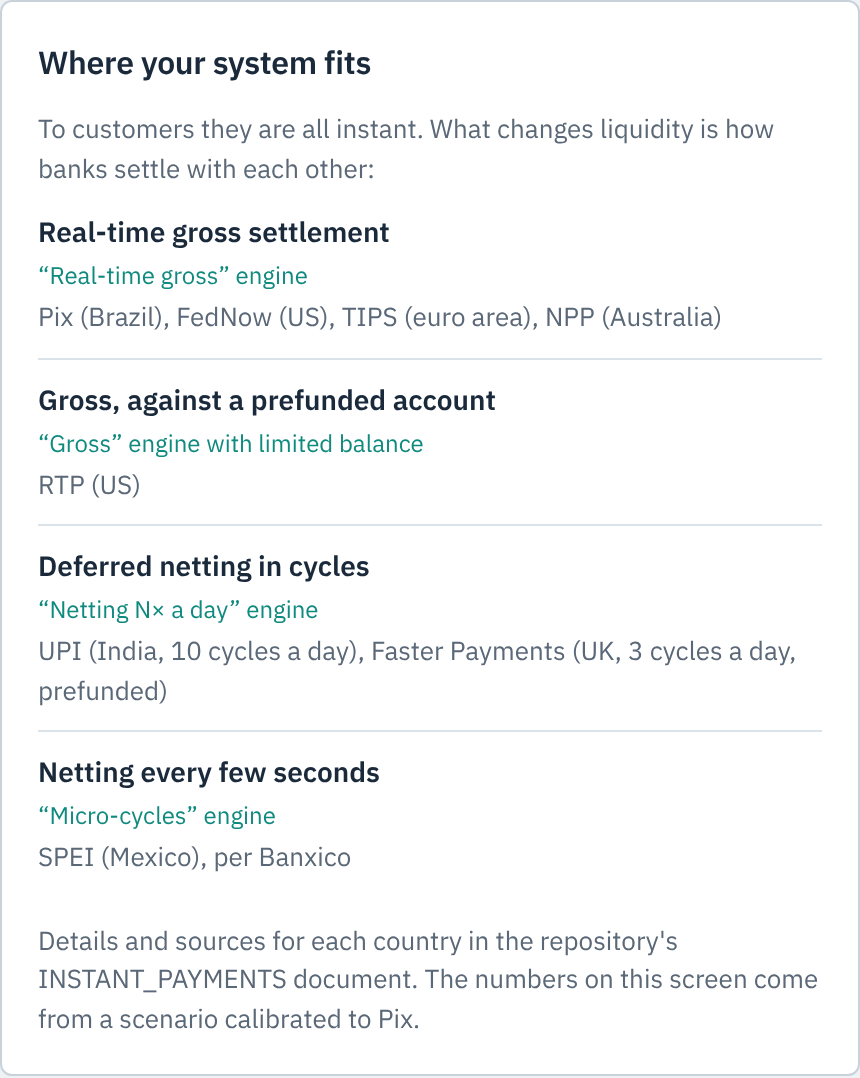
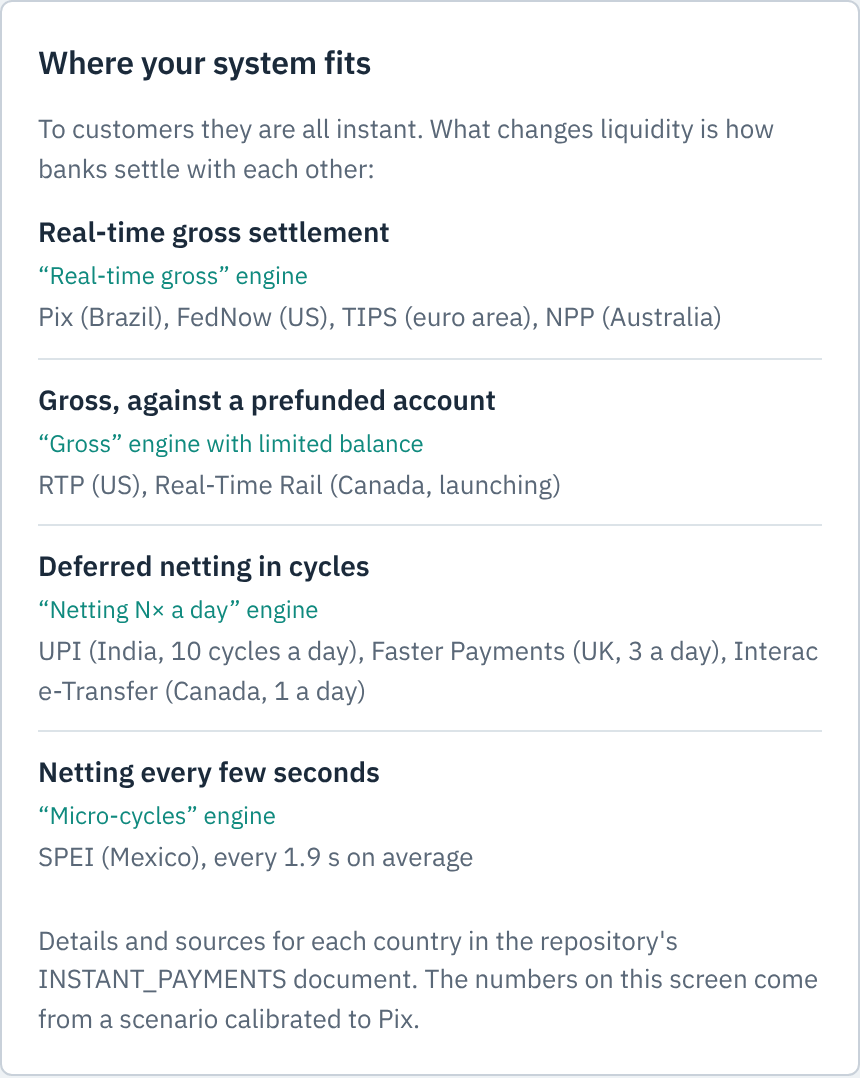
docs: confirm SPEI, Interac e-Transfer and Canada's RTR against primary sources; update UI panel and screenshots
Claude-Session: https://claude.ai/code/session_01DUGyeUeHFLL1zbYYdBK5a7

diff --git a/web/src/i18n.ts b/web/src/i18n.ts
@@ -93,9 +93,9 @@ const pt = {
   fitIntro: "Para o cliente, todos são instantâneos. O que muda a liquidez é como os bancos acertam as contas entre si:",
   fitRows: [
     { model: "Liquidação bruta em tempo real", engine: "motor “Bruto em tempo real”", systems: "Pix (Brasil), FedNow (EUA), TIPS (zona do euro), NPP (Austrália)" },
-    { model: "Bruta, com conta pré-financiada", engine: "motor “Bruto” com saldo limitado", systems: "RTP (EUA)" },
-    { model: "Compensação diferida em ciclos", engine: "motor “Compensação N× ao dia”", systems: "UPI (Índia, 10 ciclos por dia), Faster Payments (Reino Unido, 3 ciclos por dia, pré-financiado)" },
-    { model: "Compensação a cada poucos segundos", engine: "motor “Micro-ciclos”", systems: "SPEI (México), segundo o Banxico" },
+    { model: "Bruta, com conta pré-financiada", engine: "motor “Bruto” com saldo limitado", systems: "RTP (EUA), Real-Time Rail (Canadá, em lançamento)" },
+    { model: "Compensação diferida em ciclos", engine: "motor “Compensação N× ao dia”", systems: "UPI (Índia, 10 ciclos por dia), Faster Payments (Reino Unido, 3 por dia), Interac e-Transfer (Canadá, 1 por dia)" },
+    { model: "Compensação a cada poucos segundos", engine: "motor “Micro-ciclos”", systems: "SPEI (México), em média a cada 1,9 s" },
   ],
   fitCaption: "Detalhes e fontes de cada país no documento INSTANT_PAYMENTS do repositório. Os números desta tela vêm de um cenário calibrado com o Pix.",
 };
@@ -166,9 +166,9 @@ const en: Strings = {
   fitIntro: "To customers they are all instant. What changes liquidity is how banks settle with each other:",
   fitRows: [
     { model: "Real-time gross settlement", engine: "“Real-time gross” engine", systems: "Pix (Brazil), FedNow (US), TIPS (euro area), NPP (Australia)" },
-    { model: "Gross, against a prefunded account", engine: "“Gross” engine with limited balance", systems: "RTP (US)" },
-    { model: "Deferred netting in cycles", engine: "“Netting N× a day” engine", systems: "UPI (India, 10 cycles a day), Faster Payments (UK, 3 cycles a day, prefunded)" },
-    { model: "Netting every few seconds", engine: "“Micro-cycles” engine", systems: "SPEI (Mexico), per Banxico" },
+    { model: "Gross, against a prefunded account", engine: "“Gross” engine with limited balance", systems: "RTP (US), Real-Time Rail (Canada, launching)" },
+    { model: "Deferred netting in cycles", engine: "“Netting N× a day” engine", systems: "UPI (India, 10 cycles a day), Faster Payments (UK, 3 a day), Interac e-Transfer (Canada, 1 a day)" },
+    { model: "Netting every few seconds", engine: "“Micro-cycles” engine", systems: "SPEI (Mexico), every 1.9 s on average" },
   ],
   fitCaption: "Details and sources for each country in the repository's INSTANT_PAYMENTS document. The numbers on this screen come from a scenario calibrated to Pix.",
 };

diff --git a/docs/INSTANT_PAYMENTS.md b/docs/INSTANT_PAYMENTS.md
@@ -8,7 +8,7 @@
 > payments. This page shows which settlement model each system uses and which LoopSettle engine
 > represents it.
 >
-> Last checked: 5 Nov 2026, by public web search. Rows marked **to check** rely on secondary
+> Last checked: 5 Nov 2026, by public web search; SPEI and Canada checked against primary sources (Banxico, Interac, Bank of Canada). Rows marked **to check** rely on secondary
 > sources and must be confirmed against the operator's rulebook before being cited.
 
 ## The key distinction: how banks settle with each other
@@ -21,7 +21,7 @@ changes the **liquidity** banks must hold is how the banks settle among themselv
 | **Real-time gross settlement (RTGS)** | each payment settles on its own, immediately, in central bank money; the payer's bank needs the funds *before* each payment | `GrossRealTime` |
 | **Gross, against a prefunded joint account** | as above, but against a pool of funds the banks prefund at the central bank | `GrossRealTime` with a limited opening balance (constrained-liquidity mode) |
 | **Deferred net settlement (DNS)** | banks exchange payments instantly but settle only their *net* positions, in a few cycles a day (often prefunded or collateralised) | `DeferredNet { cycles_per_day }` |
-| **Netting every few seconds** | a multilateral offsetting algorithm runs in quick succession | `AtomicMicroCycle` (closest analogue) |
+| **Netting every few seconds** | a clearing algorithm runs in quick succession and settles the payments the current balances allow | `AtomicMicroCycle` (closest analogue) |
 
 LoopSettle's central result — *nettable volume is not saved liquidity* — is about systems in the
 first two groups, which are the ones asking whether a liquidity-saving mechanism is worth adding.
@@ -38,11 +38,11 @@ question: how much more liquidity a move to RTGS would require.
 | **TIPS** (SCT Inst) | Euro area | Eurosystem (ECB) | Nov 2018 | RTGS in euro central bank money, each payment in under 10 s | `GrossRealTime` | confirmed |
 | **NPP** + Fast Settlement Service | Australia | NPP Australia / Reserve Bank of Australia | Feb 2018 | line-by-line real-time settlement of each payment in exchange settlement accounts, no netting | `GrossRealTime` | confirmed |
 | **FAST** | Singapore | Banking industry / MAS | 2014 | real-time service; how FAST positions settle in MEPS+ is not settled by the sources found | — | **to check** |
-| **SPEI** | Mexico | Banco de México | Aug 2004 | described by commercial sources as RTGS, but by the World Bank and a Banxico presentation as a multilateral offsetting algorithm running every few seconds | `AtomicMicroCycle` (analogue) | **to check** |
+| **SPEI** | Mexico | Banco de México | Aug 2004 | settlement by a clearing algorithm that repeatedly selects the sets of payments that can settle with participants' current balances — every 1.9 s on average, inside the system, in central bank money (Banxico) | `AtomicMicroCycle` (analogue) | confirmed (Banxico) |
 | **UPI** | India | NPCI / Reserve Bank of India | 2016 | deferred net settlement: NPCI computes net positions and settles them in the RBI's RTGS, 10 cycles a day for authorised transactions | `DeferredNet { 10 }` | confirmed (secondary sources) |
 | **Faster Payments** | United Kingdom | Pay.UK / Bank of England | May 2008 | deferred net settlement at the Bank of England, three cycles per business day, prefunded | `DeferredNet { 3 }` | confirmed (secondary sources) |
-| **Interac e-Transfer** | Canada | Interac Corp. | 2003 | instant to the customer; banks settle net obligations later through Payments Canada systems (exact current routing not confirmed) | `DeferredNet` | **to check** |
-| **Real-Time Rail (RTR)** | Canada | Payments Canada | not yet live: phased launch targeted for Q4 2026 | to be confirmed when it launches | — | **to check** |
+| **Interac e-Transfer** | Canada | Interac Corp. | 2003 | instant to the customer; deferred net settlement in 24-hour cycles: Interac computes each participant's amount and participants pay each other through Lynx (Canada's RTGS); migration to the RTR planned | `DeferredNet { 1 }` | confirmed (Interac disclosure, 2025) |
+| **Real-Time Rail (RTR)** | Canada | Payments Canada | not yet live: phased launch targeted for Q4 2026 | real-time settlement against prefunded settlement accounts at the Bank of Canada, funded and defunded through Lynx | `GrossRealTime` (limited balance) | confirmed (Bank of Canada policy); launch pending |
 
 ## What this does and does not mean
 
@@ -76,6 +76,9 @@ question: how much more liquidity a move to RTGS would require.
   [Business Today, settlement cycles from 3 Nov 2025](https://www.businesstoday.in/personal-finance/news/story/upi-users-on-alert-settlement-rules-to-change-from-november-3-heres-what-can-be-expected-495471-2025-09-24)
 - Faster Payments: [BIS CPSS 105 (UK)](https://www.bis.org/publ/cpss105_uk.pdf) ·
   [Pay.UK, net sender caps](https://www.wearepay.uk/understanding-changes-to-the-faster-payment-system-net-sender-caps/)
+- SPEI (primary): [Banco de México, SPEI description](https://www.banxico.org.mx/sistemas-de-pago/d/%7B89B6CCF0-6070-7389-3DD5-B27AC4ECD9D1%7D.pdf)
+- Interac e-Transfer (primary): [Interac, PPS self-assessment disclosure 2025](https://www.interac.ca/wp-content/uploads/2025/09/Interac-PPS-e-Transfer-Self-Assessment-2025-VF-Disclosure-Submission.pdf)
+- RTR (primary): [Bank of Canada, settlement account access policy for the Real-Time Rail](https://www.bankofcanada.ca/core-functions/financial-system/bank-canadas-settlement-account-policies-for-payments-canada-payment-systems/bank-canada-settlement-account-access-policy-real-time-rail/)
 - Canada: [Bank of Canada, payment systems it oversees](https://www.bankofcanada.ca/core-functions/financial-system/payment-systems/) ·
   [Bank of Canada designates Interac e-Transfer](https://www.finextra.com/pressarticle/83658/bank-of-canada-designates-interac-etransfer-as-a-prominent-payment-system) ·
   [Real-Time Rail on track for Q4 2026](https://platform.intelligence.regxelerator.com/updates/b02be15b633e5427f73a003899655469f4bc1a794ae83319c766dfcb8bacdf7d/payments-canada-confirms-real-time-rail-is-on-track-for-phased-q4-2026-launch-with-centralized-f)

diff --git a/docs/INSTANT_PAYMENTS.pt-BR.md b/docs/INSTANT_PAYMENTS.pt-BR.md
@@ -8,7 +8,7 @@
 > instantâneos. Esta página mostra o modelo de liquidação de cada sistema e qual motor do
 > LoopSettle o representa.
 >
-> Última conferência: 05/11/2026, por busca pública na web. Linhas marcadas **a conferir**
+> Última conferência: 05/11/2026, por busca pública na web; SPEI e Canadá conferidos em fontes primárias (Banxico, Interac, Bank of Canada). Linhas marcadas **a conferir**
 > dependem de fontes secundárias e precisam ser confirmadas no regulamento do operador antes de
 > serem citadas.
 
@@ -23,7 +23,7 @@ entre si:
 | **Liquidação bruta em tempo real (LBTR/RTGS)** | cada pagamento liquida sozinho, na hora, em dinheiro do banco central; o banco pagador precisa ter o saldo *antes* de cada pagamento | `GrossRealTime` |
 | **Bruta, contra conta conjunta pré-financiada** | como acima, mas contra um fundo que os bancos depositam antes no banco central | `GrossRealTime` com saldo inicial limitado (modo de liquidez restrita) |
 | **Compensação diferida (DNS)** | os bancos trocam os pagamentos na hora, mas liquidam só as posições *líquidas*, em alguns ciclos por dia (muitas vezes pré-financiados ou com garantia) | `DeferredNet { ciclos_por_dia }` |
-| **Compensação a cada poucos segundos** | um algoritmo de compensação multilateral roda em intervalos curtos | `AtomicMicroCycle` (o análogo mais próximo) |
+| **Compensação a cada poucos segundos** | um algoritmo de compensação roda em intervalos curtos e liquida os pagamentos que os saldos do momento permitem | `AtomicMicroCycle` (o análogo mais próximo) |
 
 O resultado central do LoopSettle — *volume compensável não é liquidez economizada* — diz
 respeito aos sistemas dos dois primeiros grupos, que são os que se perguntam se vale adicionar um
@@ -41,11 +41,11 @@ modelo bruto exigiria.
 | **TIPS** (SCT Inst) | Zona do euro | Eurosistema (BCE) | nov/2018 | bruta em tempo real em dinheiro do banco central em euro, cada pagamento em menos de 10 s | `GrossRealTime` | confirmado |
 | **NPP** + Fast Settlement Service | Austrália | NPP Australia / Reserve Bank of Australia | fev/2018 | liquidação individual em tempo real de cada pagamento nas contas de liquidação, sem compensação | `GrossRealTime` | confirmado |
 | **FAST** | Singapura | setor bancário / MAS | 2014 | serviço em tempo real; as fontes encontradas não esclarecem como as posições do FAST são liquidadas no MEPS+ | — | **a conferir** |
-| **SPEI** | México | Banco de México | ago/2004 | fontes comerciais o descrevem como bruto em tempo real, mas o Banco Mundial e uma apresentação do Banxico descrevem um algoritmo de compensação multilateral que roda a cada poucos segundos | `AtomicMicroCycle` (análogo) | **a conferir** |
+| **SPEI** | México | Banco de México | ago/2004 | liquidação por um algoritmo de compensação que escolhe, repetidamente, os conjuntos de pagamentos que podem ser liquidados com os saldos do momento — em média a cada 1,9 s, dentro do próprio sistema, em dinheiro do banco central (Banxico) | `AtomicMicroCycle` (análogo) | confirmado (Banxico) |
 | **UPI** | Índia | NPCI / Reserve Bank of India | 2016 | compensação diferida: a NPCI calcula as posições líquidas e as liquida no sistema bruto do RBI, 10 ciclos por dia para transações autorizadas | `DeferredNet { 10 }` | confirmado (fontes secundárias) |
 | **Faster Payments** | Reino Unido | Pay.UK / Bank of England | mai/2008 | compensação diferida no Bank of England, três ciclos por dia útil, pré-financiada | `DeferredNet { 3 }` | confirmado (fontes secundárias) |
-| **Interac e-Transfer** | Canadá | Interac Corp. | 2003 | instantâneo para o cliente; os bancos liquidam as obrigações líquidas depois, pelos sistemas da Payments Canada (o caminho exato atual não foi confirmado) | `DeferredNet` | **a conferir** |
-| **Real-Time Rail (RTR)** | Canadá | Payments Canada | ainda não opera: lançamento em fases previsto para o 4º trimestre de 2026 | a confirmar quando entrar em operação | — | **a conferir** |
+| **Interac e-Transfer** | Canadá | Interac Corp. | 2003 | instantâneo para o cliente; compensação diferida em ciclos de 24 horas: a Interac calcula o valor de cada participante e os participantes pagam uns aos outros pelo Lynx (o sistema bruto do Canadá); migração para o RTR prevista | `DeferredNet { 1 }` | confirmado (divulgação da Interac, 2025) |
+| **Real-Time Rail (RTR)** | Canadá | Payments Canada | ainda não opera: lançamento em fases previsto para o 4º trimestre de 2026 | liquidação em tempo real contra contas de liquidação pré-financiadas no Bank of Canada, abastecidas e esvaziadas pelo Lynx | `GrossRealTime` (saldo limitado) | confirmado (política do Bank of Canada); lançamento pendente |
 
 ## O que isso significa e o que não significa
 

diff --git a/README.md b/README.md
@@ -224,17 +224,22 @@ entre si**, e o LoopSettle tem um motor para cada modelo:
 | Modelo entre bancos | Exemplos | Motor |
 |---|---|---|
 | Bruto em tempo real | Pix (Brasil), FedNow (EUA), TIPS (zona do euro), NPP (Austrália) | `GrossRealTime` |
-| Bruto, conta pré-financiada | RTP (EUA) | `GrossRealTime` com saldo limitado |
-| Compensação diferida em ciclos | UPI (Índia, 10/dia), Faster Payments (Reino Unido, 3/dia) | `DeferredNet` |
-| Compensação a cada poucos segundos | SPEI (México), a conferir | `AtomicMicroCycle` |
+| Bruto, conta pré-financiada | RTP (EUA), Real-Time Rail (Canadá, em lançamento) | `GrossRealTime` com saldo limitado |
+| Compensação diferida em ciclos | UPI (Índia, 10/dia), Faster Payments (Reino Unido, 3/dia), Interac e-Transfer (Canadá, 1/dia) | `DeferredNet` |
+| Compensação a cada poucos segundos | SPEI (México, em média a cada 1,9 s) | `AtomicMicroCycle` |
 
 </td>
   </tr>
 </table>
 
 - **Nos EUA**, o FedNow funciona como o Pix: o resultado central se aplica diretamente ao desenho.
-- **No Canadá**, o Interac e-Transfer é instantâneo para o cliente, mas os bancos compensam depois
-  (modelo `DeferredNet`); o novo Real-Time Rail ainda não estava em operação em novembro de 2026.
+- **No Canadá**, o Interac e-Transfer é instantâneo para o cliente, mas os bancos compensam o saldo
+  líquido uma vez por dia, pelo Lynx (modelo `DeferredNet`). O novo Real-Time Rail, com lançamento
+  previsto para o fim de 2026, liquida em tempo real contra contas pré-financiadas no Bank of
+  Canada: é exatamente o tipo de sistema para o qual a lógica do estudo finlandês mede o custo da
+  migração.
+- **No México**, o SPEI já roda um algoritmo de compensação a cada 1,9 s em média: é o análogo real
+  mais próximo dos micro-ciclos atômicos.
 - **Os números** (9,3%, 0,3%, 0,02%) vêm do cenário calibrado com o Pix e não valem
   automaticamente para outro país: recalibrar exige os agregados públicos dele.
 
@@ -622,17 +627,21 @@ has an engine for each model:
 | Interbank model | Examples | Engine |
 |---|---|---|
 | Real-time gross | Pix (Brazil), FedNow (US), TIPS (euro area), NPP (Australia) | `GrossRealTime` |
-| Gross, prefunded account | RTP (US) | `GrossRealTime` with limited balance |
-| Deferred netting in cycles | UPI (India, 10/day), Faster Payments (UK, 3/day) | `DeferredNet` |
-| Netting every few seconds | SPEI (Mexico), to be checked | `AtomicMicroCycle` |
+| Gross, prefunded account | RTP (US), Real-Time Rail (Canada, launching) | `GrossRealTime` with limited balance |
+| Deferred netting in cycles | UPI (India, 10/day), Faster Payments (UK, 3/day), Interac e-Transfer (Canada, 1/day) | `DeferredNet` |
+| Netting every few seconds | SPEI (Mexico, every 1.9 s on average) | `AtomicMicroCycle` |
 
 </td>
   </tr>
 </table>
 
 - **In the US**, FedNow works like Pix: the central result applies directly to its design.
-- **In Canada**, Interac e-Transfer is instant for the customer but banks settle later (the
-  `DeferredNet` model); the new Real-Time Rail was not yet live in November 2026.
+- **In Canada**, Interac e-Transfer is instant for the customer, but banks settle the net amount once
+  a day through Lynx (the `DeferredNet` model). The new Real-Time Rail, due to launch in late 2026,
+  settles in real time against prefunded accounts at the Bank of Canada: exactly the kind of
+  system whose migration cost the Finnish study's logic measures.
+- **In Mexico**, SPEI already runs a clearing algorithm every 1.9 s on average: the closest
+  real-world analogue of atomic micro-cycles.
 - **The numbers** (9.3%, 0.3%, 0.02%) come from the scenario calibrated to Pix and do not carry
   over automatically to another country: re-calibrating requires that country's public aggregates.
 

diff --git a/REVIEW.pt-BR.md b/REVIEW.pt-BR.md
@@ -164,9 +164,11 @@ geradas por `node scripts/screenshots.cjs`). Falta testar no notebook real (i3, 
     settlement account).
 69. **Enquadramento internacional (`docs/INSTANT_PAYMENTS.pt-BR.md`).** O README, a interface e a
     documentação agora apresentam o LoopSettle como estudo de pagamentos instantâneos com
-    liquidação bruta, com o Pix como caso calibrado, e relacionam 11 sistemas aos motores. As
-    linhas "a conferir" (FAST, SPEI, Interac e-Transfer, RTR do Canadá) dependem de fontes
-    secundárias. A linha do SPEI importa para o artigo: se o Banxico confirmar um algoritmo de
-    compensação multilateral a cada poucos segundos, o SPEI é um análogo real dos micro-ciclos
-    atômicos e uma comparação natural. Pix é marca de alto renome do BCB (INPI, junho de 2026);
+    liquidação bruta, com o Pix como caso calibrado, e relacionam 11 sistemas aos motores. SPEI,
+    Interac e-Transfer e o RTR do Canadá foram conferidos em fontes primárias (Banxico, Interac,
+    Bank of Canada); só o FAST continua "a conferir". A linha do SPEI importa para o artigo: o
+    Banxico descreve um algoritmo de compensação que liquida os conjuntos possíveis a cada 1,9 s
+    em média, um análogo real dos micro-ciclos atômicos e uma comparação natural; o RTR do Canadá
+    (pré-financiado, em lançamento no 4º trimestre de 2026) é um caso vivo da pergunta de migração
+    do estudo finlandês. Pix é marca de alto renome do BCB (INPI, junho de 2026);
     o README e a interface dizem que o LoopSettle é independente, sem endosso do BCB.

diff --git a/REVIEW.md b/REVIEW.md
@@ -161,9 +161,11 @@ the real laptop (i3, 4 GB).
     settlement account).
 69. **International framing (`docs/INSTANT_PAYMENTS.md`).** The README, the UI and the docs now
     present LoopSettle as a study of instant payments with gross settlement, with Pix as the
-    calibrated case, and map 11 systems to the engines. Rows marked "to check" (FAST, SPEI,
-    Interac e-Transfer, Canada's RTR) rely on secondary sources. The SPEI row matters for the
-    paper: if Banxico confirms a multilateral offsetting algorithm every few seconds, SPEI is a
-    real-world analogue of atomic micro-cycles and a natural comparison. Pix is a high-renown
+    calibrated case, and map 11 systems to the engines. SPEI, Interac e-Transfer and Canada's RTR
+    were checked against primary sources (Banxico, Interac, Bank of Canada); only FAST is still
+    "to check". The SPEI row matters for the paper: Banxico describes a clearing algorithm that
+    settles the payable sets every 1.9 s on average, a real-world analogue of atomic micro-cycles
+    and a natural comparison; Canada's RTR (prefunded, launching Q4 2026) is a live case for the
+    Finnish study's migration question. Pix is a high-renown
     trademark of the BCB (INPI, June 2026); the README and the UI state that LoopSettle is
     independent and not endorsed by the BCB.
